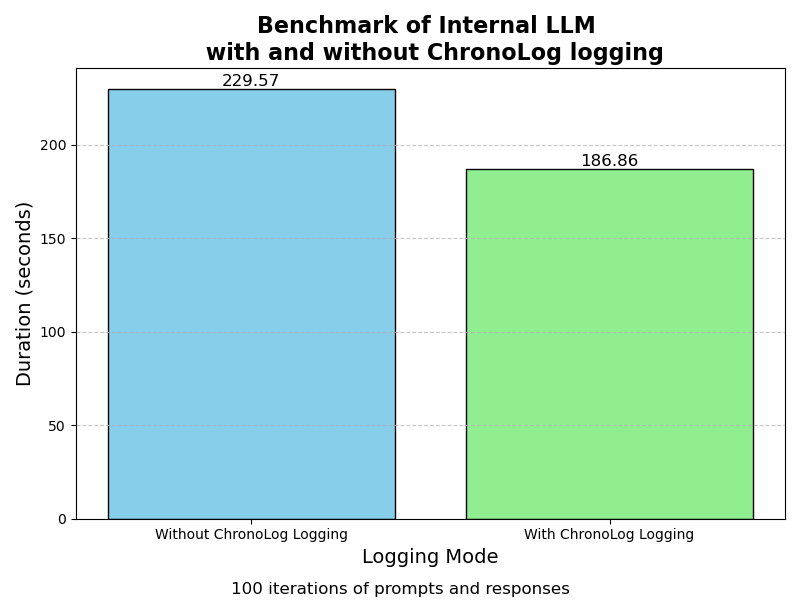
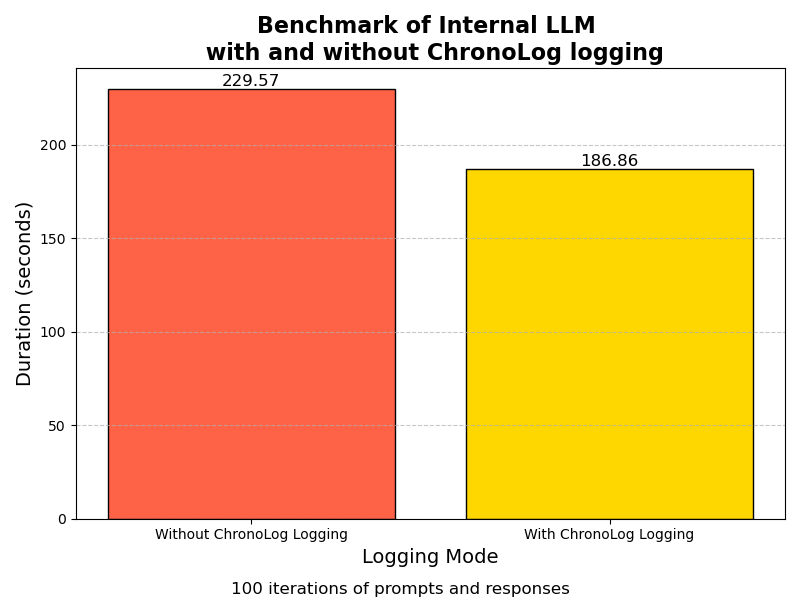
final graph

diff --git a/graph_internalllm.py b/graph_internalllm.py
@@ -10,7 +10,7 @@ times = [duration_without, duration_with]
 
 # --- Create the bar chart ---
 plt.figure(figsize=(8, 6))
-bars = plt.bar(labels, times, color=['skyblue', 'lightgreen'], edgecolor='black')
+bars = plt.bar(labels, times, color=['tomato', 'gold'], edgecolor='black')
 
 plt.xlabel('Logging Mode', fontsize=14)
 plt.ylabel('Duration (seconds)', fontsize=14)
